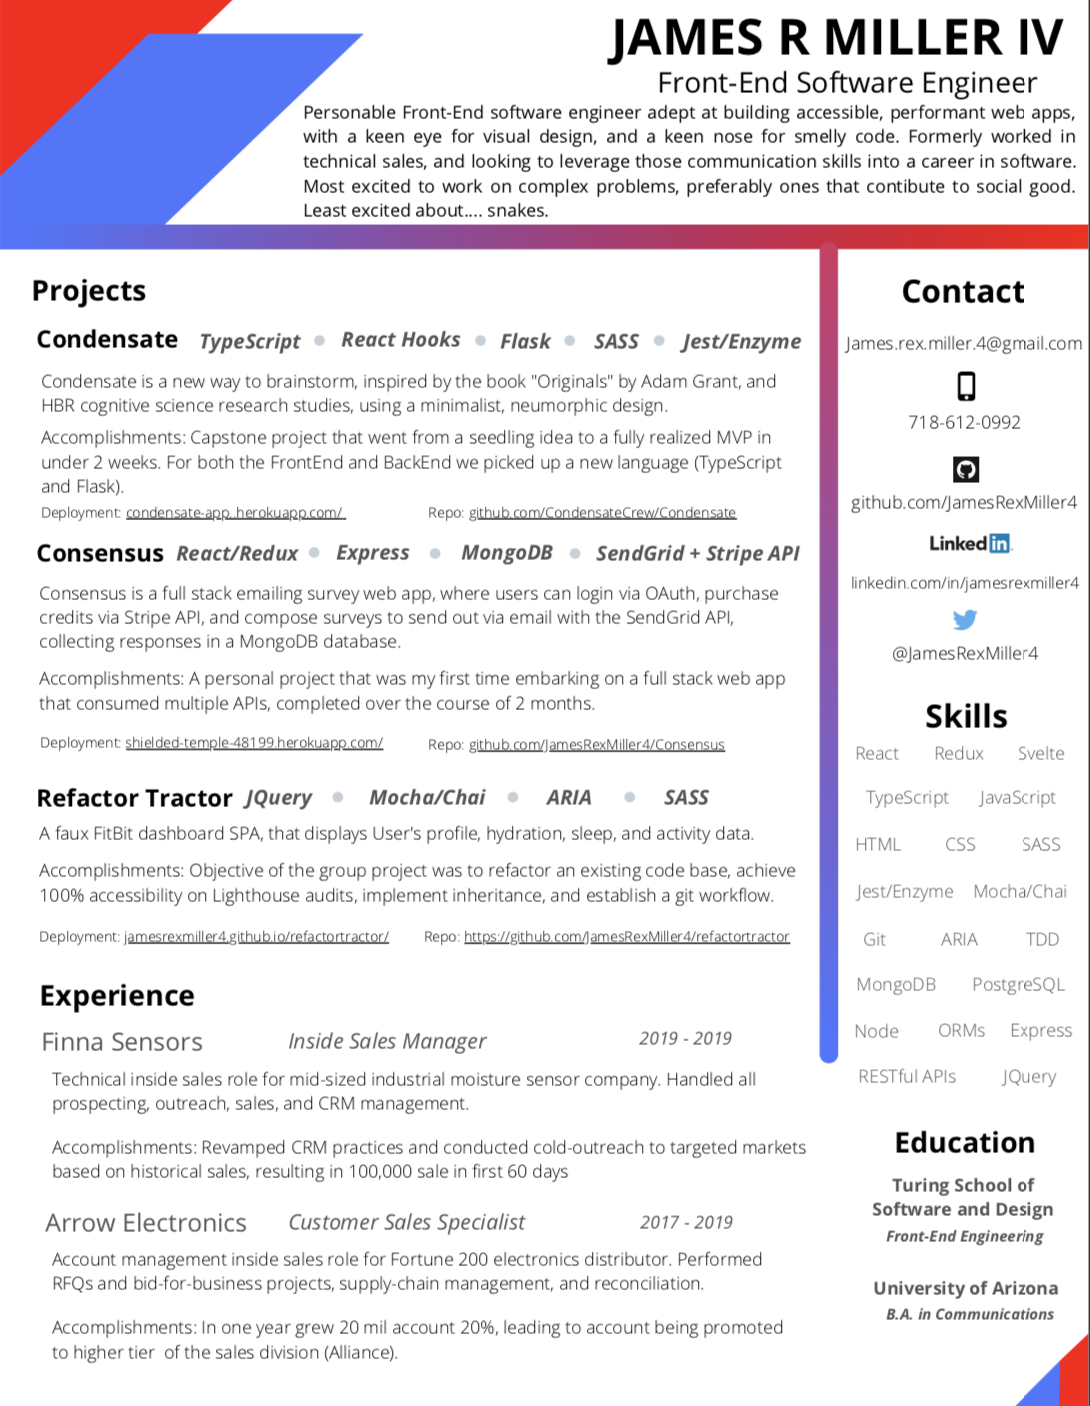
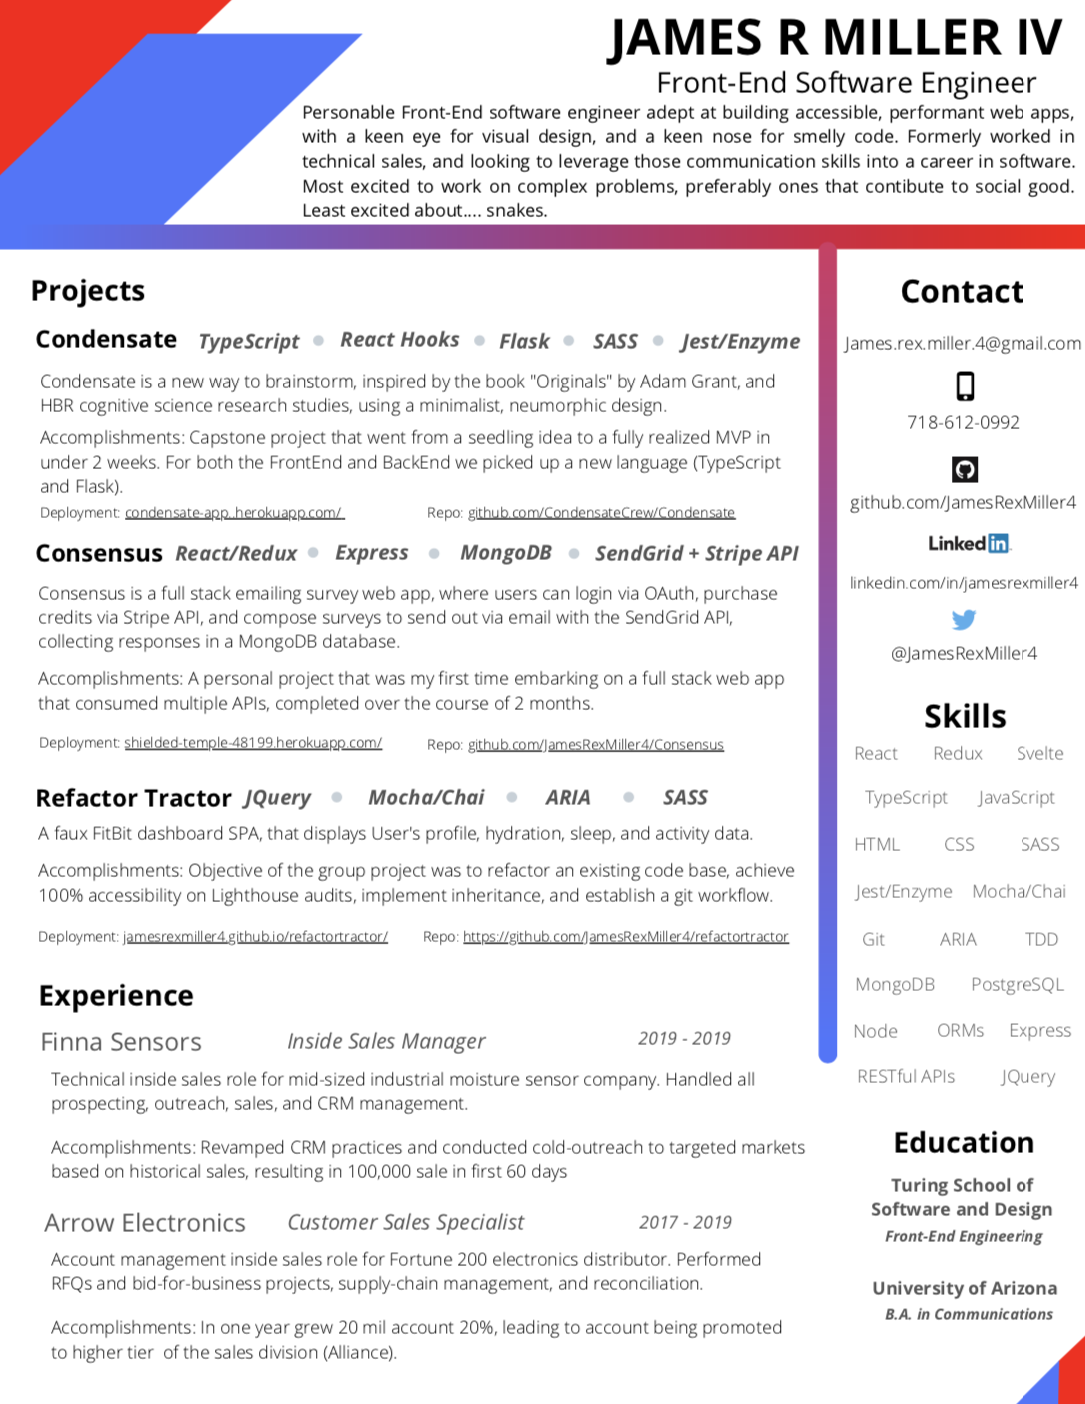
Add Resume Route, add image element, src, and styles

diff --git a/src/App.js b/src/App.js
@@ -5,6 +5,7 @@ import About from './About/About';
 import Header from './Header/Header';
 import Home from './Home/Home';
 import NotFound from './NotFound/NotFound';
+import Resume from './Resume/Resume';
 
 function App() {
   return (
@@ -13,6 +14,7 @@ function App() {
     <Switch>
       <Route exact path={'/'} render={() => <Home />} />
       <Route path={'/about'} render={() => <About />} />
+      <Route path={'/resume'} render={() => <Resume />} />
       <Route component={() => <NotFound />} />
     </Switch>
     </body>

diff --git a/src/Resume/Resume.scss b/src/Resume/Resume.scss
@@ -1,0 +1,14 @@
+.resume-main {
+  padding: 10vw 20vw;
+  img {
+    width: 65vw;
+    box-shadow: 8px 8px 8px -6px black;
+    border: 1px solid black;
+    transition: 2s ease-in-out;
+    &:hover {
+      transform: scale(1.01);
+      transition: 2s ease-in-out;
+      box-shadow: 8px 8px 8px -6px #f7f7f7;
+    }
+  }
+}

diff --git a/src/Resume/Resume.js b/src/Resume/Resume.js
@@ -1,10 +1,11 @@
 import React from 'react';
 import './Resume.scss';
+import resume from '../images/resume-photo.png';
 
 const Resume = () => {
   return ( 
-    <main>
-
+    <main className='resume-main'>
+      <img src={resume} alt='resume'/>
     </main>
   );
 }
